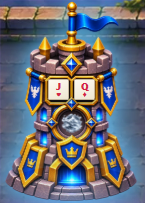
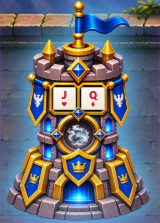
Enlarge 18 HP towers and lower arena rows

diff --git a/src/ui/arena/arenaLayout.js b/src/ui/arena/arenaLayout.js
@@ -24,7 +24,7 @@ const DAMAGED_WIDTH_RATIO = 461 / 503;
 // ── Значения по умолчанию (измерены по «Задний фон.png» и референсу) ──
 const DEFAULTS = deepFreeze({
   platforms: {
-    rowCy: [256, 475, 679],                      // ряды: верх / центр / низ
+    rowCy: [270, 510, 750],                      // ряды ниже, шаг 240 оставляет место увеличенным башням
     // outer (12 HP) — ближняя к центру, ломается первой; inner (18 HP) — ближе к Нексусу
     colCx: { allyOuter: 645, allyInner: 450, enemyInner: 1163, enemyOuter: 959 },
     rx: 64,
@@ -37,7 +37,7 @@ const DEFAULTS = deepFreeze({
   tower: {
     h: 208,           // высота спрайта башни (целая/повреждённая)
     inner:{
-      h:218,ruinsW:165,
+      h:240,ruinsW:182, // +10% только для башен на 18 HP и их обломков
       art:{slots:[{x:32.4,y:38.6,w:15.6,h:11.1},{x:50.6,y:38.6,w:15.6,h:11.1}],circle:{cx:49.3,cy:60.9,d:19.3},glow:{cy:99,w:112,h:35},hp:{cx:50,cy:-2}},
     },
     fullAspect: 0.6157,    // контент-bbox «Башня синяя.png» 431×700

diff --git a/reports/inner-towers/README.md b/reports/inner-towers/README.md
@@ -4,11 +4,13 @@
 
 Новые изображения назначены только внутренним башням с максимальным HP 18. Внешние башни на 12 HP сохраняют прежние изображения и геометрию. Существующие пороги сохранены: 10–18 HP — целая, 1–9 — повреждённая, 0 — руины. Правила боя, урон и колоды не менялись.
 
-Целые и повреждённые башни подготовлены в общей системе координат. Для них откалиброваны два слота карт и центр стихии. Обломки сохраняют естественные пропорции каждого исходника и ту же ось основания. Высота целой/повреждённой башни — 218 единиц дизайн-пространства, что оставляет место между рядами. Редактор раскладки использует геометрию соответствующей модели.
+Целые и повреждённые башни подготовлены в общей системе координат. Для них откалиброваны два слота карт и центр стихии. Обломки сохраняют естественные пропорции каждого исходника и ту же ось основания. Высота целой/повреждённой башни увеличена с 218 до 240 единиц дизайн-пространства (+10,1%), ширина обломков — с 165 до 182. Размер башен на 12 HP сохранён. Центры рядов опущены с 256/475/679 до 270/510/750: шаг 240 позволяет разместить увеличенные башни без пересечения соседних спрайтов. Редактор раскладки использует геометрию соответствующей модели.
 
 Проверки: 373 автоматических теста прошли; сборка прошла; браузерная проверка `npm run test:towers` проверила обе стороны, все состояния, наложение карт/эффекта, смену изображения при изменении HP и отсутствие горизонтального скролла на телефоне. Регрессионный сценарий `npm run test:core` прошёл.
 
 [Арена на ПК](desktop.png) · [На телефоне](mobile.png) · [Синяя целая](blue-full.png) · [Красная повреждённая](red-damaged.png)
+
+После увеличения дополнительно проверено размещение всех живых башен: соседние спрайты на 18 HP не пересекаются, нижний ряд остаётся внутри арены. [Все башни на ПК](all-full-desktop.png) · [Все башни на телефоне](all-full-mobile.png).
 
 Подготовка ресурсов: `node scripts/prepare-inner-towers.mjs <папка с исходными PNG>`.
 
